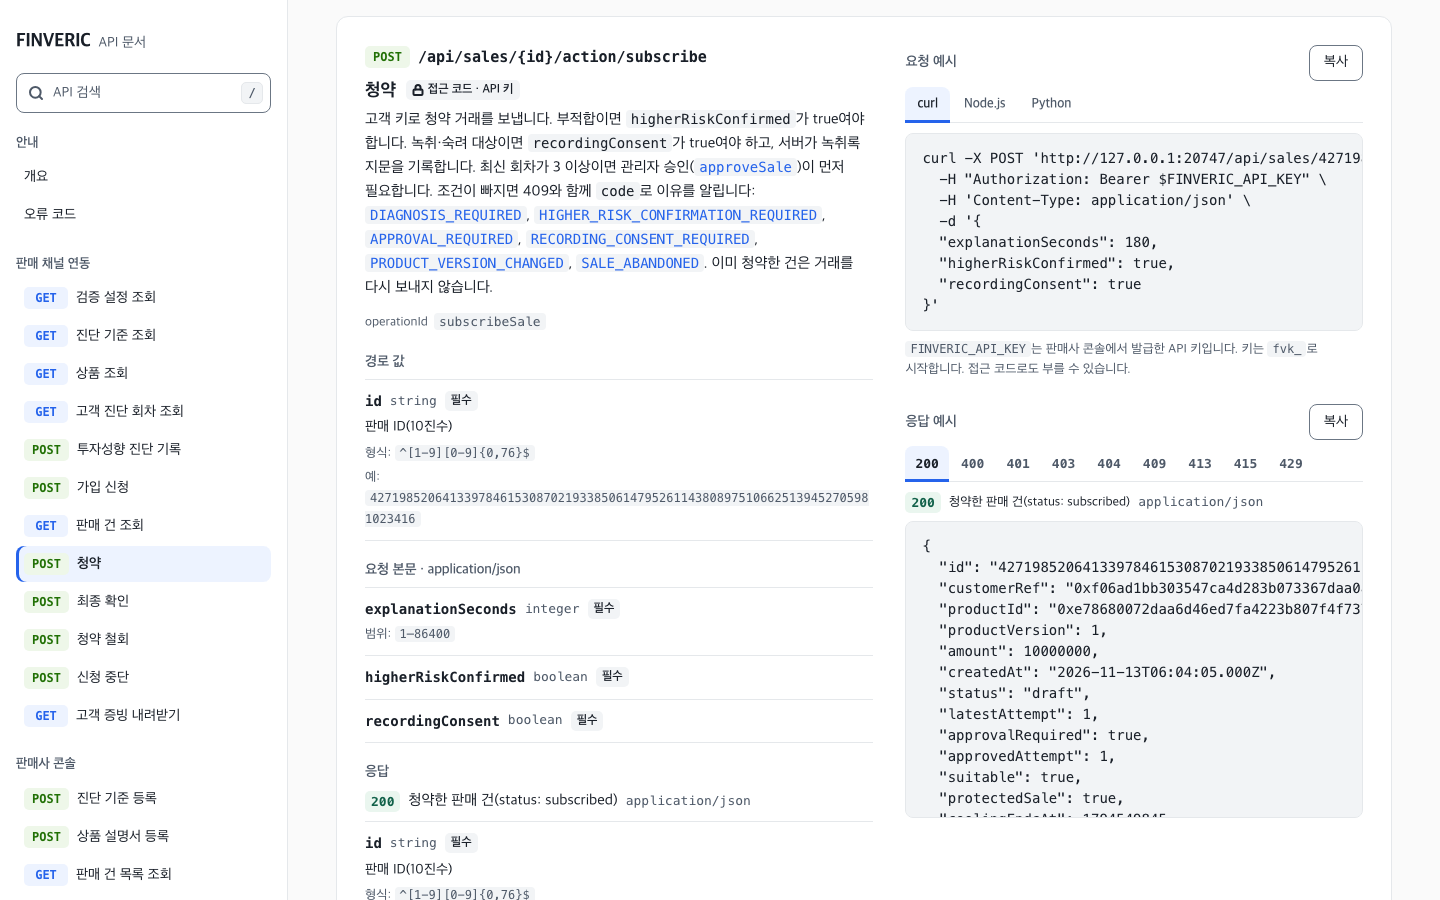
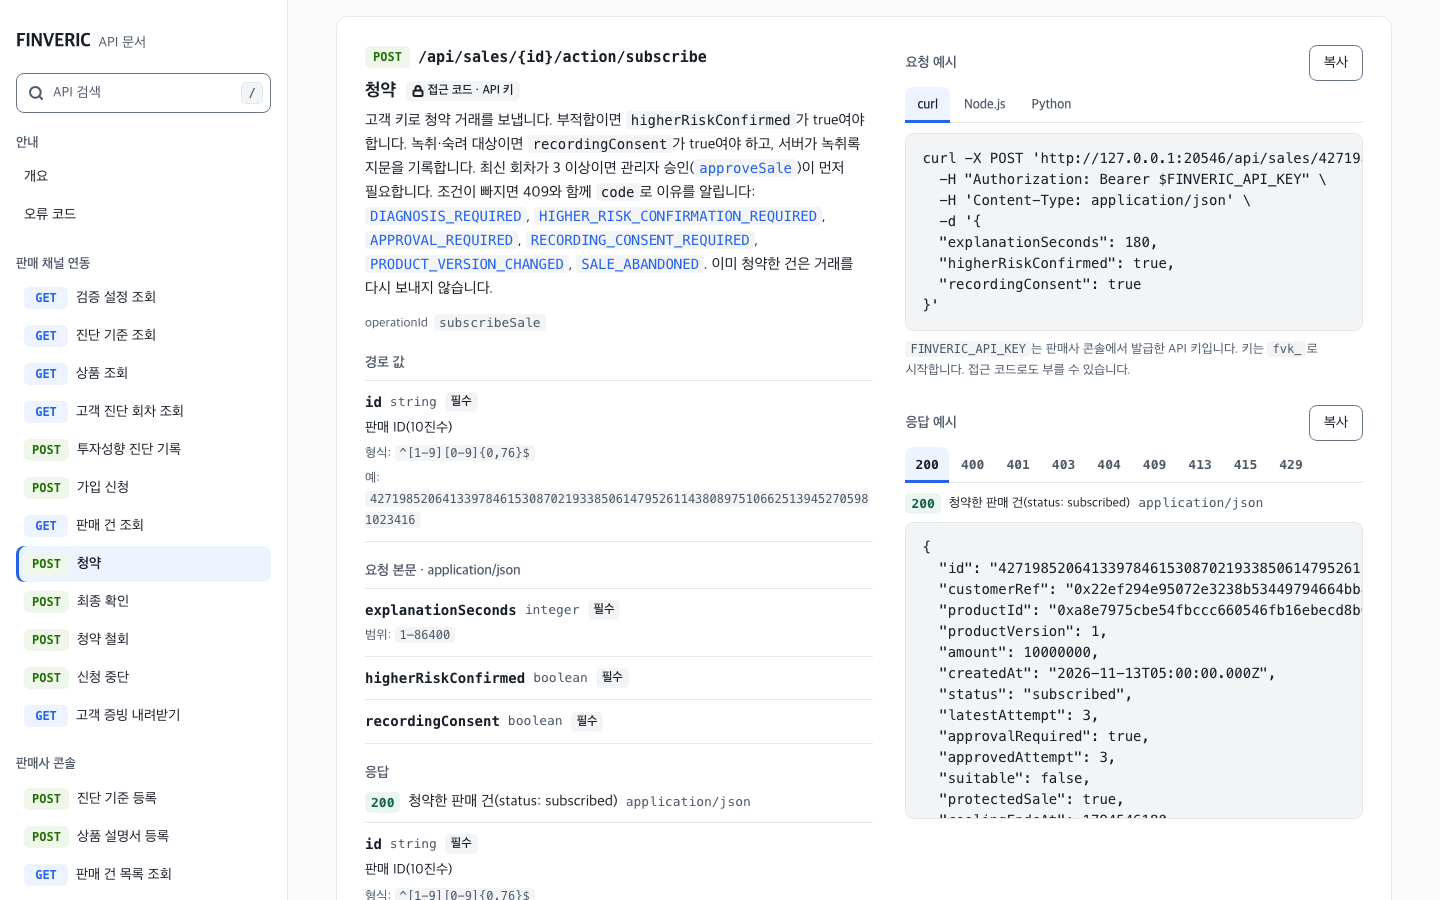
Show each sale response's real status in the API docs examples
Without an example, the docs page built each response from the schema and
took the first enum value, so every sale response showed status: draft.
Each sale response now has an example in its result state (draft,
approved draft, abandoned, subscribed, confirmed, withdrawn, settled),
built from one typed helper so the fields match SaleDto.

A new test checks every success example against its response schema and
checks that each sale example's status matches its description. The README
API docs screenshot is retaken.

diff --git a/apps/api/src/docs/operations.ts b/apps/api/src/docs/operations.ts
@@ -5,6 +5,7 @@ import {
   DEMO_CUSTOMER_NO,
   DEMO_PRODUCTS,
   DEMO_RULE,
+  recordingHash,
   type LedgerError,
 } from "@finveric/core";
 import { LEDGER_ERROR_CODES, type ErrorCode } from "@finveric/core/errors";
@@ -27,8 +28,11 @@ import {
   type HealthResponse,
   type IssueApiKeyRequest,
   type OpenSaleRequest,
+  type SaleDto,
+  type SaleStatus,
   type SubscribeRequest,
   type TamperRequest,
+  type TraceDto,
 } from "@finveric/core/api";
 
 export const TAGS = [
@@ -76,10 +80,164 @@ export type Operation = {
 };
 
 const arrayOf = (items: object) => ({ type: "array", items });
-const sale = (description: string) => ({
-  200: { description, schema: saleSchema },
-});
 const [els] = DEMO_PRODUCTS;
+
+// ── 판매 건 응답 예시 ───────────────────────────────────────
+// 경로마다 그 결과 상태의 예시를 둔다. 없으면 문서 화면이 스키마의 첫 값으로 예시를 만들어서 모든 응답이 status: draft로 보인다.
+// 시연 고객(3회차, 관리자 승인 필요)이 고난도 ELS(부적합, 녹취·숙려 대상)에 가입하는 흐름이다.
+// 숙려 시간은 시연 값 60초다. 원장 거래 기록의 `detail`(거래 영수증)은 길어서 예시에서 뺀다.
+const SALE_ID =
+  "4271985206413397846153087021933850614795261143808975106625139452705981023416";
+const CUSTOMER_REF =
[1 lines of base64/hex data omitted]
+/** 신청 시각(2026-11-13T05:00:00Z, 초). 다른 시각은 여기서 센다. */
+const OPENED_AT = 1_794_546_000;
+const SUBSCRIBED_AT = OPENED_AT + 120;
+const CONFIRMED_AT = SUBSCRIBED_AT + 90;
+const iso = (seconds: number) => new Date(seconds * 1000).toISOString();
+
+const approvalTrace: TraceDto = {
+  id: "0f6b2c1e-4d7a-4e3b-9c58-1a2d3e4f5a01",
+  at: iso(OPENED_AT + 60),
+  saleId: SALE_ID,
+  customerRef: CUSTOMER_REF,
+  source: "approver",
+  action: "관리자 승인 서명",
+  status: "confirmed",
+  detail: { attempt: 3 },
+};
+/** 원장 거래 기록. `n`은 기록 순서다. 거래 해시는 예시 값이다. */
+const ledgerTrace = (
+  n: number,
+  source: string,
+  action: string,
+  event: string,
+  at: number,
+): TraceDto => ({
+  id: `0f6b2c1e-4d7a-4e3b-9c58-1a2d3e4f5a0${n}`,
+  at: iso(at),
+  source,
+  action,
+  status: "confirmed",
+  saleId: SALE_ID,
+  customerRef: CUSTOMER_REF,
+  txHash: recordingHash(`예시 거래 ${action}`),
+  blockNumber: String(20 + n),
+  event,
+});
+const subscribeTrace = ledgerTrace(
+  2,
+  "customer",
+  "subscribe",
+  "SaleSubscribed",
+  SUBSCRIBED_AT,
+);
+const confirmTrace = ledgerTrace(
+  3,
+  "customer",
+  "confirm",
+  "EnrollmentConfirmed",
+  CONFIRMED_AT,
+);
+/** 원장 getSale 결과. status는 1 청약, 2 확정, 3 철회다. */
+const chainSale = (
+  status: 1 | 2 | 3,
+  at: { confirmedAt?: number; withdrawnAt?: number; settledAt?: number } = {},
+): NonNullable<SaleDto["chain"]> => ({
+  customerRef: BigInt(CUSTOMER_REF).toString(),
+  productId: els.id,
+  recordingHash: recordingHash("예시 녹취록"),
+  amount: "10000000",
+  productVersion: els.document.version,
+  attempt: 3,
+  explanationSeconds: 180,
+  suitable: false,
+  protectedSale: true,
+  higherRiskConfirmed: true,
+  approved: true,
+  status,
+  subscribedAt: String(SUBSCRIBED_AT),
+  confirmedAt: String(at.confirmedAt ?? 0),
+  withdrawnAt: String(at.withdrawnAt ?? 0),
+  settledAt: String(at.settledAt ?? 0),
+});
+/** 판매 건 예시. 필드 순서는 실제 응답(`apps/api/src/modules/records.ts`)과 같다. */
+const saleExample = (
+  status: SaleStatus,
+  traces: TraceDto[],
+  chain?: NonNullable<SaleDto["chain"]>,
+): SaleDto => ({
+  id: SALE_ID,
+  customerRef: CUSTOMER_REF,
+  productId: els.id,
+  productVersion: els.document.version,
+  amount: 10_000_000,
+  createdAt: iso(OPENED_AT),
+  status,
+  latestAttempt: 3,
+  approvalRequired: true,
+  ...(traces.includes(approvalTrace) ? { approvedAttempt: 3 } : {}),
+  suitable: false,
+  protectedSale: true,
+  ...(chain ? { coolingEndsAt: SUBSCRIBED_AT + 60 } : {}),
+  settled: chain ? chain.settledAt !== "0" : false,
+  ...(chain ? { chain } : {}),
+  submissionPending: false,
+  traces,
+});
+const SALE_EXAMPLES = {
+  draft: saleExample("draft", []),
+  approved: saleExample("draft", [approvalTrace]),
+  abandoned: saleExample("abandoned", [
+    {
+      id: "0f6b2c1e-4d7a-4e3b-9c58-1a2d3e4f5a09",
+      at: iso(OPENED_AT + 60),
+      saleId: SALE_ID,
+      customerRef: CUSTOMER_REF,
+      source: "판매 채널",
+      action: "가입 중단",
+      status: "confirmed",
+    },
+  ]),
+  subscribed: saleExample(
+    "subscribed",
+    [approvalTrace, subscribeTrace],
+    chainSale(1),
+  ),
+  confirmed: saleExample(
+    "confirmed",
+    [approvalTrace, subscribeTrace, confirmTrace],
+    chainSale(2, { confirmedAt: CONFIRMED_AT }),
+  ),
+  withdrawn: saleExample(
+    "withdrawn",
+    [
+      approvalTrace,
+      subscribeTrace,
+      ledgerTrace(3, "customer", "withdraw", "SaleWithdrawn", CONFIRMED_AT),
+    ],
+    chainSale(3, { withdrawnAt: CONFIRMED_AT }),
+  ),
+  settled: saleExample(
+    "confirmed",
+    [
+      approvalTrace,
+      subscribeTrace,
+      confirmTrace,
+      ledgerTrace(
+        4,
+        "infrastructure",
+        "recordSettlement",
+        "SettlementRecorded",
+        CONFIRMED_AT + 60,
+      ),
+    ],
+    chainSale(2, { confirmedAt: CONFIRMED_AT, settledAt: CONFIRMED_AT + 60 }),
+  ),
+} satisfies Record<string, SaleDto>;
+const sale = (description: string, example: SaleDto) => ({
+  200: { description, schema: saleSchema, example },
+});
 /**
  * 원장 거래를 보내는 경로의 오류. `ledger`는 그 원장 함수가 거절할 수 있는 오류 이름이다(contracts/src/FundLedger.sol).
  * 미확정 거래, 영수증 대기, 거래 제출 실패, 영수증의 이벤트 누락도 함께 생긴다.
@@ -95,7 +253,7 @@ const sends = (...ledger: LedgerError[]): ErrorCode[] => [
 
 /** 경로 값 예시. 이름이 같으면 모든 경로에 쓴다. */
 export const PARAMETER_EXAMPLES: Record<string, string> = {
-  id: "4271985206413397846153087021933850614795261143808975106625139452705981023416",
+  id: SALE_ID,
   customerNo: DEMO_CUSTOMER_NO,
   kind: "receipt",
 };
@@ -171,7 +329,7 @@ export const OPERATIONS: Record<string, Operation> = {
     summary: "가입 신청",
     description:
       "고객과 상품으로 청약 전 신청(초안)을 만듭니다. 상품의 최신 설명서 버전을 씁니다. 원장 거래는 보내지 않습니다.",
-    responses: sale("만든 판매 건(status: draft)"),
+    responses: sale("만든 판매 건(status: draft)", SALE_EXAMPLES.draft),
     errors: ["PRODUCT_NOT_REGISTERED", "STORED_RECORD_MISMATCH"],
     example: {
       productId: els.id,
@@ -184,7 +342,10 @@ export const OPERATIONS: Record<string, Operation> = {
     summary: "판매 건 조회",
     description:
       "판매 건의 상태, 적합 여부, 승인 필요 여부, 처리 기록을 돌려줍니다. 청약 뒤의 상태는 원장에서 읽습니다.",
-    responses: sale("판매 건"),
+    responses: sale(
+      "판매 건. 예시는 숙려 중인 청약입니다(status: subscribed).",
+      SALE_EXAMPLES.subscribed,
+    ),
     errors: ["SALE_NOT_FOUND", "STORED_RECORD_MISMATCH"],
   },
   "POST /api/sales/:id/action/subscribe": {
@@ -193,7 +354,10 @@ export const OPERATIONS: Record<string, Operation> = {
     summary: "청약",
     description:
       "고객 키로 청약 거래를 보냅니다. 부적합이면 `higherRiskConfirmed`가 true여야 합니다. 녹취·숙려 대상이면 `recordingConsent`가 true여야 하고, 서버가 녹취록 지문을 기록합니다. 최신 회차가 3 이상이면 관리자 승인(`approveSale`)이 먼저 필요합니다. 조건이 빠지면 409와 함께 `code`로 이유를 알립니다: `DIAGNOSIS_REQUIRED`, `HIGHER_RISK_CONFIRMATION_REQUIRED`, `APPROVAL_REQUIRED`, `RECORDING_CONSENT_REQUIRED`, `PRODUCT_VERSION_CHANGED`, `SALE_ABANDONED`. 이미 청약한 건은 거래를 다시 보내지 않습니다.",
-    responses: sale("청약한 판매 건(status: subscribed)"),
+    responses: sale(
+      "청약한 판매 건(status: subscribed)",
+      SALE_EXAMPLES.subscribed,
+    ),
     errors: [
       "SALE_NOT_FOUND",
       "APPROVAL_REQUIRED",
@@ -223,7 +387,10 @@ export const OPERATIONS: Record<string, Operation> = {
     summary: "최종 확인",
     description:
       "고객 키로 가입을 확정합니다. 녹취·숙려 대상은 `coolingEndsAt`이 지나야 합니다. 그전에는 원장이 `TooEarly`로 거절합니다. 이미 확정한 건은 거래를 다시 보내지 않습니다.",
-    responses: sale("확정한 판매 건(status: confirmed)"),
+    responses: sale(
+      "확정한 판매 건(status: confirmed)",
+      SALE_EXAMPLES.confirmed,
+    ),
     errors: [
       "SALE_NOT_FOUND",
       ...sends("TooEarly", "InvalidState", "Unauthorized"),
@@ -235,7 +402,10 @@ export const OPERATIONS: Record<string, Operation> = {
     tag: "판매 채널 연동",
     summary: "청약 철회",
     description: "최종 확인 전의 청약을 고객 키로 철회합니다.",
-    responses: sale("철회한 판매 건(status: withdrawn)"),
+    responses: sale(
+      "철회한 판매 건(status: withdrawn)",
+      SALE_EXAMPLES.withdrawn,
+    ),
     errors: [
       "SALE_NOT_FOUND",
       "WITHDRAW_NOT_ALLOWED",
@@ -248,7 +418,10 @@ export const OPERATIONS: Record<string, Operation> = {
     summary: "신청 중단",
     description:
       "청약 전 신청을 중단합니다. 원장 거래는 없습니다. 이미 기록한 진단 회차는 원장에 남습니다.",
-    responses: sale("중단한 판매 건(status: abandoned)"),
+    responses: sale(
+      "중단한 판매 건(status: abandoned)",
+      SALE_EXAMPLES.abandoned,
+    ),
     errors: ["SALE_NOT_FOUND", "SALE_ALREADY_SUBSCRIBED", "STORED_RECORD_MISMATCH"],
   },
   "GET /api/sales/:id/export/:kind": {
@@ -324,7 +497,11 @@ export const OPERATIONS: Record<string, Operation> = {
     description:
       "모든 판매 건을 돌려줍니다. 판매사 콘솔의 판매·검토 화면이 씁니다.",
     responses: {
-      200: { description: "판매 건 목록", schema: arrayOf(saleSchema) },
+      200: {
+        description: "판매 건 목록",
+        schema: arrayOf(saleSchema),
+        example: [SALE_EXAMPLES.confirmed],
+      },
     },
     errors: ["STORED_RECORD_MISMATCH"],
   },
@@ -334,7 +511,10 @@ export const OPERATIONS: Record<string, Operation> = {
     summary: "관리자 승인",
     description:
       "최신 회차가 3 이상인 고객의 청약 전에 승인자 키로 승인 서명을 만듭니다. 서명은 청약 거래에 들어갑니다. 고객이 다시 진단하면 새로 승인해야 합니다.",
-    responses: sale("승인한 판매 건(approvedAttempt 포함)"),
+    responses: sale(
+      "승인한 판매 건(status: draft, approvedAttempt 포함)",
+      SALE_EXAMPLES.approved,
+    ),
     errors: [
       "SALE_NOT_FOUND",
       "APPROVAL_NOT_NEEDED",
@@ -349,7 +529,10 @@ export const OPERATIONS: Record<string, Operation> = {
     summary: "결제 기록",
     description:
       "확정한 건의 결제 완료를 업무 인프라 키로 원장에 기록합니다. 이미 기록했으면 거래를 다시 보내지 않습니다.",
-    responses: sale("결제를 기록한 판매 건(settled: true)"),
+    responses: sale(
+      "결제를 기록한 판매 건(status: confirmed, settled: true)",
+      SALE_EXAMPLES.settled,
+    ),
     errors: [
       "SALE_NOT_FOUND",
       "SETTLEMENT_NOT_ALLOWED",

diff --git a/tests/openapi.test.ts b/tests/openapi.test.ts
@@ -2,6 +2,7 @@ import { test } from "node:test";
 import assert from "node:assert/strict";
 import { PUBLIC_PATHS } from "../apps/api/src/app.ts";
 import { offlineApp } from "./offline-app.ts";
+import { responseChecker } from "./openapi-check.ts";
 import { OPERATIONS, TAGS } from "../apps/api/src/docs/operations.ts";
 import {
   ERROR_CODES,
@@ -241,6 +242,36 @@ test("OpenAPI 3.1 문서가 등록한 모든 경로를 분류와 operationId로 
     assert.ok(message.split(". ").length >= 2, `${code}: 원인과 다음 행동`);
     assert.match(description, /다\.$/, `${code}: 설명`);
   }
+});
+
+test("성공 응답 예시는 응답 스키마와 맞고, 판매 건 예시는 설명에 적은 상태다", async (t) => {
+  const app = await offlineApp(t);
+  const spec = (await app.inject({ url: "/api/openapi.json" })).json();
+  const docs = responseChecker(spec);
+  const sales: string[] = [];
+  for (const [path, item] of Object.entries<any>(spec.paths))
+    for (const [method, op] of Object.entries<any>(item))
+      for (const [status, response] of Object.entries<any>(op.responses)) {
+        const media = response.content?.["application/json"];
+        if (Number(status) >= 300 || media?.example === undefined) continue;
+        // 문서에 없는 필드가 있어도 실패한다(openapi-check.ts).
+        docs.check(method, path, Number(status), media.example);
+        if (media.schema.$ref !== "#/components/schemas/Sale") continue;
+        // 문서 화면은 예시가 없으면 스키마의 첫 값(draft)을 보여 준다. 판매 건 응답은 모두 예시가 있어야 한다.
+        const expected = /status: (\w+)/.exec(response.description)?.[1];
+        assert.ok(expected, `${op.operationId}: 설명에 status 없음`);
+        assert.equal(media.example.status, expected, op.operationId);
+        sales.push(op.operationId);
+      }
+  const saleResponses = Object.values<any>(spec.paths).flatMap((item) =>
+    Object.values<any>(item).filter(
+      (op) =>
+        op.responses[200]?.content?.["application/json"]?.schema.$ref ===
+        "#/components/schemas/Sale",
+    ),
+  );
+  assert.equal(sales.length, saleResponses.length);
+  assert.ok(sales.length >= 8, sales.join(", "));
 });
 
 test("오류 code는 이름이 하나뿐이고, 공통 오류이거나 어떤 경로의 문서에 있다", async (t) => {

diff --git a/apps/api/AGENTS.md b/apps/api/AGENTS.md
@@ -65,7 +65,7 @@ repositories/  판매 기록 조회·추가·삭제·저장과 잠금     gatewa
   - 목차 위에 검색 칸이 있다. 요약, 경로, 메서드, operationId로 목차를 거른다. `/`나 Ctrl·⌘+K로 초점을 옮기고, Esc로 지운다. 결과 수는 화면 낭독기가 읽는다.
   - 분류마다 API 목록(메서드, 요약, 경로, 인증)으로 시작한다. 경로 제목 옆에 인증 배지(공개, 접근 코드, 접근 코드 · API 키)를 둔다.
   - 요청 예시는 curl, Node.js(`fetch`), Python(`requests`)이다. 고른 언어는 화면 전체에 적용하고 `localStorage`에 기억한다. 인증 헤더는 분류로 정한다. `판매 채널 연동`은 `$FINVERIC_API_KEY`, 나머지는 `$FINVERIC_ACCESS_CODE`, 공개 경로는 헤더가 없다. 본문은 `operations.ts`의 요청 예시다.
-  - 응답 예시는 상태 코드마다 탭으로 보인다. 응답에 `example`이 있으면 그 값을 쓴다. 없으면 응답 스키마에서 만든다: `example`·`examples`, `enum[0]`, `const`, 형식(`date-time`)과 정규식, 경로 값 예시(같은 정규식), 배열은 항목 하나. 오류 응답은 그 경로의 대표 `code` 예시다. 만든 값이 업무와 어긋나면 `operations.ts`의 성공 응답에 `example`을 넣는다(예: `GET /api/health`의 503).
+  - 응답 예시는 상태 코드마다 탭으로 보인다. 응답에 `example`이 있으면 그 값을 쓴다. 없으면 응답 스키마에서 만든다: `example`·`examples`, `enum[0]`, `const`, 형식(`date-time`)과 정규식, 경로 값 예시(같은 정규식), 배열은 항목 하나. 오류 응답은 그 경로의 대표 `code` 예시다. 만든 값이 업무와 어긋나면 `operations.ts`의 성공 응답에 `example`을 넣는다(예: `GET /api/health`의 503). 판매 건 응답은 모두 결과 상태의 예시(`SALE_EXAMPLES`)를 쓴다. 넣지 않으면 스키마의 첫 값이라 모든 판매 건이 `status: draft`로 보인다. 설명에는 `status: <값>`을 적는다.
   - 경로마다 "이 API의 오류" 표(HTTP 상태, `code`, 메시지)를 둔다. `x-errors`에서 공통이 아닌 `code`를 상태 순서로 보여 주고, 공통 오류는 표 아래 한 줄에 둔다. `code`는 오류 코드 표의 그 행으로 연결한다.
   - 오류 코드 표는 `x-error-types`, `x-error-codes`, `x-ledger-errors`로 그린다. 표 하나를 `type`으로 묶는다. 묶음 머리에 `type`, HTTP 상태, 뜻, 다음 행동을, 행마다 `code`, HTTP 상태, 설명, 메시지를 둔다. 공통 오류에는 "공통" 배지를 단다. 원장 오류 표(`ledgerError`, `code`, 뜻과 다음 행동)는 따로 둔다. 설명의 `### 오류 코드` 묶음은 화면에 따로 보이지 않는다. 설명 안의 `type`, `code`, `ledgerError`, operationId 이름은 그 항목으로 연결한다.
 - 문서 화면은 외부 파일과 CDN을 쓰지 않는다. Vercel 함수 번들에 문자열로 들어간다. 색, 글자 크기(`--type-*`), 반경은 DESIGN.md 토큰을 그대로 쓴다. `apps/web/src/shared/theme.css`를 가져올 수 없으므로 값을 `STYLE`의 `:root`에 옮겨 둔다. 토큰을 바꾸면 두 곳을 함께 고친다.
@@ -124,7 +124,7 @@ repositories/  판매 기록 조회·추가·삭제·저장과 잠금     gatewa
 
 - `tests/mvp.test.ts`: 실제 회로·EVM·API·독립 검증, 위험 신호, 공유 저장소 인스턴스, 재시작 복구.
 - `tests/store.test.ts`: 잠금, 만료, 오류 노출, 출처, Vercel 주소 변환.
-- `tests/openapi.test.ts`: 문서가 등록한 모든 경로를 operationId·태그로 설명하는지, 공개 경로, 문서 화면, 오류 코드 표(`x-error-types`·`x-error-codes`·`x-ledger-errors`), 경로별 오류(`x-errors`)와 예시, `code` 이름(하나뿐, `UPPER_SNAKE_CASE`, 공통이거나 어떤 경로의 문서에 있음), 4xx 상태 코드와 `type`·`code`.
+- `tests/openapi.test.ts`: 문서가 등록한 모든 경로를 operationId·태그로 설명하는지, 공개 경로, 문서 화면, 오류 코드 표(`x-error-types`·`x-error-codes`·`x-ledger-errors`), 경로별 오류(`x-errors`)와 예시, 성공 응답 예시(응답 스키마와 맞는지, 판매 건 예시의 `status`가 설명과 같은지), `code` 이름(하나뿐, `UPPER_SNAKE_CASE`, 공통이거나 어떤 경로의 문서에 있음), 4xx 상태 코드와 `type`·`code`.
 - `tests/keys.test.ts`: API 키 발급·저장(해시만), 범위(403), 폐기(401), 개수 제한, 키별 요청 한도. 모든 응답을 문서의 응답 스키마와 대조한다.
 - `tests/mvp.test.ts`는 모든 API 응답을 `/api/openapi.json`의 응답 스키마와 대조한다(`tests/openapi-check.ts`). 문서에 없는 필드도 실패다. 오류 응답에 `type`이나 `code`가 없어도 실패다. 오류 응답의 `code`가 그 경로의 `x-errors`에 없거나, `type`·상태가 오류 코드 표와 달라도 실패다.
 - 함수 번들: `NETWORK=local npm run build:vercel` 뒤 임시 디렉터리에서 로컬 Anvil로 번들 핸들러를 호출해 확인한다.
